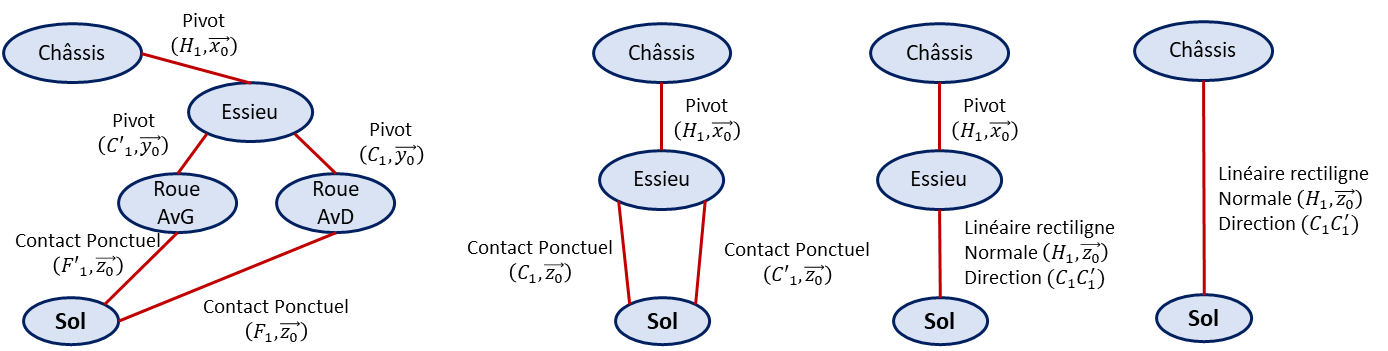
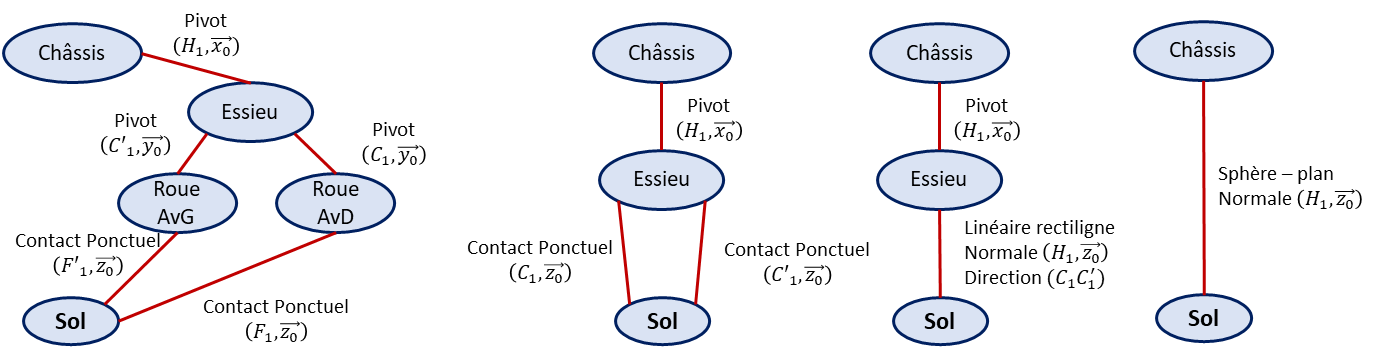
maj

diff --git a/Chapitre_02_Hyperstatisme/Cy_06_02_Colle_04_Nacelle/Cy_06_02_Colle_04_Nacelle.tex b/Chapitre_02_Hyperstatisme/Cy_06_02_Colle_04_Nacelle/Cy_06_02_Colle_04_Nacelle.tex
@@ -108,12 +108,12 @@ $\axe{H_1}{z_0}$ et de direction $(C_1C'_1)$.
 
 Enfin, la liaison linéaire rectiligne et la liaison pivot sont en série. Pour déterminer le torseur équivalent on somme les torseurs cinématiques :
 $\torseurcin{V}{\text{Ch}}{\text{Ess}} + \torseurcin{V}{\text{Ess}}{\text{Sol}}$
-$=\torseurl{\gammap \vy{0}}{\vect{0}}{H_1}+\torseurl{\deltap_y \vy{0}+\deltap_z \vz{0}}{\mup_x\vx{0}+\mup_y\vy{0}}{H_1}$
+$=\torseurl{\gammap \vx{0}}{\vect{0}}{H_1}+\torseurl{\deltap_y \vy{0}+\deltap_z \vz{0}}{\mup_x\vx{0}+\mup_y\vy{0}}{H_1}$
 
-$=\torseurl{\left(\gammap +\deltap_y \right)\vy{0}+\deltap_z \vz{0}}{\mup_x\vx{0}+\mup_y\vy{0}}{C_1}$.
+$=\torseurl{\gammap \vx{0}+\deltap_y \vy{0}+\deltap_z \vz{0}}{\mup_x\vx{0}+\mup_y\vy{0}}{C_1}$.
 
-La liaison équivalente est une liaison linéaire rectiligne (cylindre -- plan) de normale 
-$\axe{H_1}{z_0}$ et de direction $(C_1C'_1)$.
+La liaison équivalente est une liaison linéaire ponctuelle (sphère -- plan) de normale 
+$\axe{H_1}{z_0}$.
 
 \begin{center}
 \includegraphics[width=.8\linewidth]{cor_02}
@@ -126,7 +126,7 @@ $\axe{H_1}{z_0}$ et de direction $(C_1C'_1)$.
 directement sur le châssis et par rapport à une solution à 3 roues directement sur le châssis.}
 \ifprof
 \begin{corrige}
-Cette solution permet d'avoir toujours les 4 roues en contact avec le sol, quelque soit le terrain, même s'il est accidenté. 
+Cette solution permet d'avoir toujours les 4 roues en contact avec le sol, quel que soit le terrain, même s'il est accidenté. 
 \end{corrige}
 \else\fi
 
